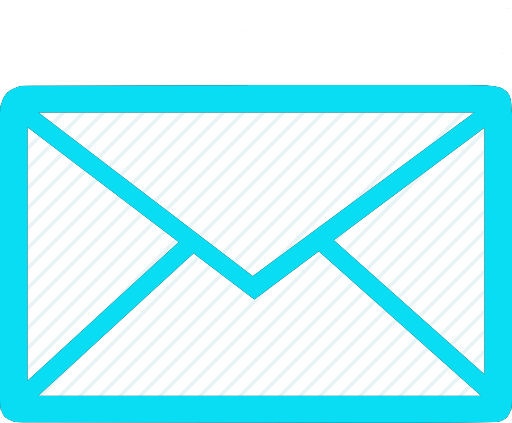
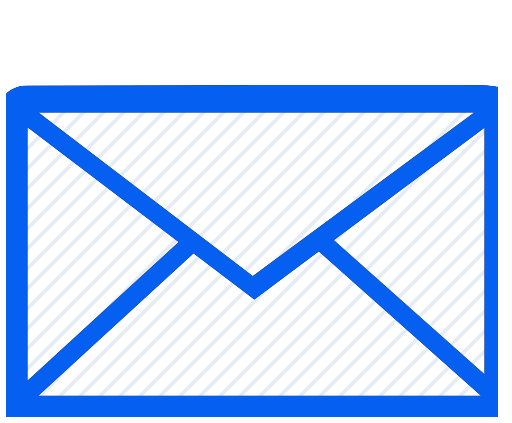
updated primary color scheme, added two empty pages for reiki and IFA content, removed appointment section, added google fonts

Changed region(s): [[0.0, 0.1844, 1.0, 1.0]]

diff --git a/src/app/app-routing.module.ts b/src/app/app-routing.module.ts
@@ -3,15 +3,17 @@ import { RouterModule, Routes } from '@angular/router';
 import { HomeComponent } from './home/home.component';
 import { AboutComponent } from './about/about.component';
 import { HistoryComponent } from './history/history.component';
-import { AppointmentsComponent } from './appointments/appointments.component';
 import { ContactComponent } from './contact/contact.component';
+import { ReikiComponent } from './reiki/reiki.component';
+import { IfaComponent } from './ifa/ifa.component';
 
 const routes: Routes = [
   { path: '', component: HomeComponent, title: 'Home' },
   { path: 'home', component: HomeComponent, title: 'Home' },
   { path: 'about', component: AboutComponent, title: 'About Khepra' },
   { path: 'history', component: HistoryComponent, title: 'History' },
-  { path: 'appointments', component: AppointmentsComponent, title: 'Make an Appointment' },
+  { path: 'reiki', component: ReikiComponent, title: 'Reiki' },
+  { path: 'ifa', component: IfaComponent, title: 'IFA' },
   { path: 'contact', component: ContactComponent, title: 'Contact Khepra'}
 
 ];
@@ -21,8 +23,7 @@ const routes: Routes = [
     HomeComponent,
     AboutComponent,
     HistoryComponent,
-    AppointmentsComponent,
-    ContactComponent,
+    ContactComponent
   ],
   imports: [RouterModule.forRoot(routes)],
   exports: [RouterModule],
@@ -30,7 +31,6 @@ const routes: Routes = [
     HomeComponent,
     AboutComponent,
     HistoryComponent,
-    AppointmentsComponent,
     ContactComponent
     ]
 })

diff --git a/src/styles.css b/src/styles.css
@@ -14,6 +14,7 @@ body {
     align-content: stretch;
     align-items: stretch;
     height: 100vh;
+    width: 100vh;
   } 
 
 html, body {
@@ -21,7 +22,7 @@ html, body {
     width: 100%;
     margin: 0px;
     padding: 0px;
-    background-image: linear-gradient(#fff 60%, #0DD6F1);
+    background-image: linear-gradient(#fff 60%, #055FF0);
     -webkit-background-size: cover;
     -moz-background-size: cover;
     -o-background-size: cover;
@@ -30,7 +31,7 @@ html, body {
 
 body {
     color: black;
-    font-family: "Gudea", sans-serif;
+    font-family: "Lateef", serif;
     position: relative;
     padding-top: 70px;
     padding-bottom: 70px; 
@@ -40,6 +41,7 @@ body {
     margin-bottom: 0;
     margin-top: 0;
 }
+
 .container {
     min-width: 100%;
 }
@@ -48,8 +50,8 @@ h1 {
     display: block;
     margin-top: 20%;
     text-align: center;
-    color: #0DD6F1;    
-    font-family: "Hammersmith One", sans-serif;
+    color: #055FF0;    
+    font-family: "Marcellus", serif;
     text-shadow: 2px 2px 2px #aaa;
 }
 
@@ -57,7 +59,7 @@ h2 {
     display: block;
     text-align: center;
     color: black;
-    font-family: "Gudea", sans-serif;
+    font-family: "Quicksand", sans-serif;
 }
 
 h3 {
@@ -84,7 +86,7 @@ svg.sep {
 }
 
 .three {
-    color: #0DD6F1;
+    color: #055FF0;
 }
 
 .error-image {

diff --git a/src/index.html b/src/index.html
@@ -7,6 +7,9 @@
   <meta name="viewport" content="width=device-width, initial-scale=1">
   <link rel="icon" type="image/x-icon" href="favicon.ico">
   <link href="https://fonts.googleapis.com/icon?family=Material+Icons" rel="stylesheet">
+  <link rel="preconnect" href="https://fonts.googleapis.com">
+  <link rel="preconnect" href="https://fonts.gstatic.com" crossorigin>
+  <link href="https://fonts.googleapis.com/css2?family=Lateef:wght@200&family=Marcellus&family=Quicksand:wght@300&display=swap" rel="stylesheet">
   <script src="https://ajax.googleapis.com/ajax/libs/jquery/3.6.1/jquery.min.js"></script>
   <link href="https://cdn.jsdelivr.net/npm/bootstrap@5.2.2/dist/css/bootstrap.min.css" rel="stylesheet" integrity="sha384-Zenh87qX5JnK2Jl0vWa8Ck2rdkQ2Bzep5IDxbcnCeuOxjzrPF/et3URy9Bv1WTRi" crossorigin="anonymous">
   <script src="https://cdn.jsdelivr.net/npm/bootstrap@5.2.2/dist/js/bootstrap.bundle.min.js" integrity="sha384-OERcA2EqjJCMA+/3y+gxIOqMEjwtxJY7qPCqsdltbNJuaOe923+mo//f6V8Qbsw3" crossorigin="anonymous"></script>

diff --git a/src/app/history/history.component.css b/src/app/history/history.component.css
@@ -9,8 +9,8 @@ svg {
 }
 
 .headding {
-    fill: #0DD6F1;
-    font-family: "Hammersmith One", sans-serif;
+    fill: #055FF0;
+    font-family: "Marcellus", serif;
 }
  
 .dash {
@@ -27,7 +27,6 @@ path {
     display: block;
     max-width: 70%;
     margin: 0 auto;
-    margin-top: 3%;
     margin-bottom: 5%;
     object-fit:contain;
     width:25%;
@@ -38,12 +37,12 @@ path {
 .history-paragraph {
     color: black;
     background-color: white;
-    border: 2px solid #0DD6F1;
+    border: 2px solid #055FF0;
     border-radius: 25px;
     padding: 20px;
     display: block;
     text-align: center;
     margin: 0 auto;
     width: 50%;
-    font-family: "Gudea", sans-serif;
+    font-family: "Lateef", serif;
 }

diff --git a/src/app/app.module.ts b/src/app/app.module.ts
@@ -7,6 +7,8 @@ import {MatToolbarModule} from '@angular/material/toolbar';
 import { NavComponent } from './nav/nav.component';
 import { FooterComponent } from './footer/footer.component';
 import { ContactBarComponent } from './contact-bar/contact-bar.component';
+import { ReikiComponent } from './reiki/reiki.component';
+import { IfaComponent } from './ifa/ifa.component';
 
 
 @NgModule({
@@ -15,6 +17,8 @@ import { ContactBarComponent } from './contact-bar/contact-bar.component';
     NavComponent,
     FooterComponent,
     ContactBarComponent,
+    ReikiComponent,
+    IfaComponent,
   ],
   imports: [
     BrowserModule,

diff --git a/src/app/reiki/reiki.component.spec.ts b/src/app/reiki/reiki.component.spec.ts
@@ -1,0 +1,23 @@
+import { ComponentFixture, TestBed } from '@angular/core/testing';
+
+import { ReikiComponent } from './reiki.component';
+
+describe('ReikiComponent', () => {
+  let component: ReikiComponent;
+  let fixture: ComponentFixture<ReikiComponent>;
+
+  beforeEach(async () => {
+    await TestBed.configureTestingModule({
+      declarations: [ ReikiComponent ]
+    })
+    .compileComponents();
+
+    fixture = TestBed.createComponent(ReikiComponent);
+    component = fixture.componentInstance;
+    fixture.detectChanges();
+  });
+
+  it('should create', () => {
+    expect(component).toBeTruthy();
+  });
+});

diff --git a/src/app/ifa/ifa.component.spec.ts b/src/app/ifa/ifa.component.spec.ts
@@ -1,0 +1,23 @@
+import { ComponentFixture, TestBed } from '@angular/core/testing';
+
+import { IfaComponent } from './ifa.component';
+
+describe('IfaComponent', () => {
+  let component: IfaComponent;
+  let fixture: ComponentFixture<IfaComponent>;
+
+  beforeEach(async () => {
+    await TestBed.configureTestingModule({
+      declarations: [ IfaComponent ]
+    })
+    .compileComponents();
+
+    fixture = TestBed.createComponent(IfaComponent);
+    component = fixture.componentInstance;
+    fixture.detectChanges();
+  });
+
+  it('should create', () => {
+    expect(component).toBeTruthy();
+  });
+});

diff --git a/src/app/about/about.component.css b/src/app/about/about.component.css
@@ -9,8 +9,8 @@ svg {
 }
 
 .headding {
-    fill: #0DD6F1;
-    font-family: "Hammersmith One", sans-serif;
+    fill: #055FF0;
+    font-family: "Marcellus", serif;
 }
 
 path {
@@ -34,12 +34,12 @@ path {
 .about-paragraph {
     color: black;
     background-color: white;
-    border: 2px solid #0DD6F1;
+    border: 2px solid #055FF0;
     border-radius: 25px;
     padding: 20px;
     display: block;
     text-align: center;
     margin: 0 auto;
     width: 50%;
-    font-family: "Gudea", sans-serif;
+    font-family: "Lateef", serif;
 }

diff --git a/src/app/nav/nav.component.html b/src/app/nav/nav.component.html
@@ -13,7 +13,10 @@
             <a class="nav-link" routerLink="/history">History</a>
           </li>
           <li class="nav-item">
-            <a class="nav-link" routerLink="/appointments">Appointments</a>
+            <a class="nav-link" routerLink="/reiki">Reiki</a>
+          </li>
+          <li class="nav-item">
+            <a class="nav-link" routerLink="/ifa">IFA</a>
           </li>
           <li class="nav-item">
             <a class="nav-link" routerLink="/contact">Contact</a>

diff --git a/src/app/contact-bar/contact-bar.component.css b/src/app/contact-bar/contact-bar.component.css
@@ -1,9 +1,9 @@
 .contact-bar {
-    width: 100%;
-    height: 30px;
-    padding: 5%;
+    min-width: 100%;
+    margin-top: 5%;
+    padding: 1%;
     justify-content: end;
-    background-color: #ADF7FF;
+    background-color: #AEC9F6;
 }
 
 img {
@@ -16,5 +16,9 @@ img {
 }
 
 .youtube-icon {
-    margin-top: 1.7%;
+    margin-top: 2%;
+}
+
+.email-icon {
+    margin-top: 1%;
 }

diff --git a/src/app/footer/footer.component.css b/src/app/footer/footer.component.css
@@ -2,14 +2,15 @@
     position: relative;
     text-align: center;
     min-width: 100%;
-    height: 2.5 rem;
-    background-color: #0DD6F1;
+    height: 3.5rem;
+    margin-top: 5%;
 }
 
 #footer p {
     text-align: center;
     width: 100%;
     height: 2.5rem;
+    font-size: xx-small;
     font-family: "Gudea", sans-serif;
 }
 

diff --git a/src/app/nav/nav.component.css b/src/app/nav/nav.component.css
@@ -1,14 +1,11 @@
-#nav-brand {
-    height: 100%;
-    margin-top: 100%;
+nav {
+    max-height: 3.5em;
+
 }
 
-button {
-    border: none;
-    margin: 5%;
-    margin-top:10%;
-    margin-bottom: 20%;
+.collapse {
     background-color: #F5F5F5;
+    min-width: 100%;
 }
 
 .text-button {
